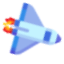
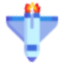
agent movement, rotation

diff --git a/aip_agent.py b/aip_agent.py
@@ -13,7 +13,6 @@ def display_time():
 
 def collided(player_mask, obs_mask, offset):
     if player_mask.overlap(obs_mask, offset):
-        print(player_mask.overlap(obs_mask, offset))
         return True
     else:
         return False
@@ -51,13 +50,13 @@ def player_move_fwd():
 
 def player_move_up():
     global player_agnt, playerY_change
-    playerY_change = -2
+    playerY_change = -1
     player_agnt = player_agnt_incl
 
 
 def player_move_down():
     global player_agnt, playerY_change
-    playerY_change = 2
+    playerY_change = 1
     player_agnt = player_agnt_dcl
 
 
@@ -240,7 +239,7 @@ while running:
                 if event.key == pygame.K_LEFT or event.key == pygame.K_RIGHT or event.key == pygame.K_UP or event.key == pygame.K_DOWN:
                     playerX_change = 0
                     playerY_change = 0
-                    player_move_std()
+                    # player_move_std()
         else:
             if event.type == pygame.KEYDOWN:
                 if event.key == pygame.K_r:
@@ -284,8 +283,6 @@ while running:
                 display_time_score = time_score
                 game_message = 'Goal Reached !!'
                 game_active = False
-        if collided(player_agent_collide_rect_mask, obs_plnt_1[2], calc_offset(player_agnt_rect, obs_plnt_1[1])):
-            print('Collideeeee')
     else:
         screen.fill((94, 129, 162))
         screen.blit(player_agnt_up, player_agnt_up_rect)
